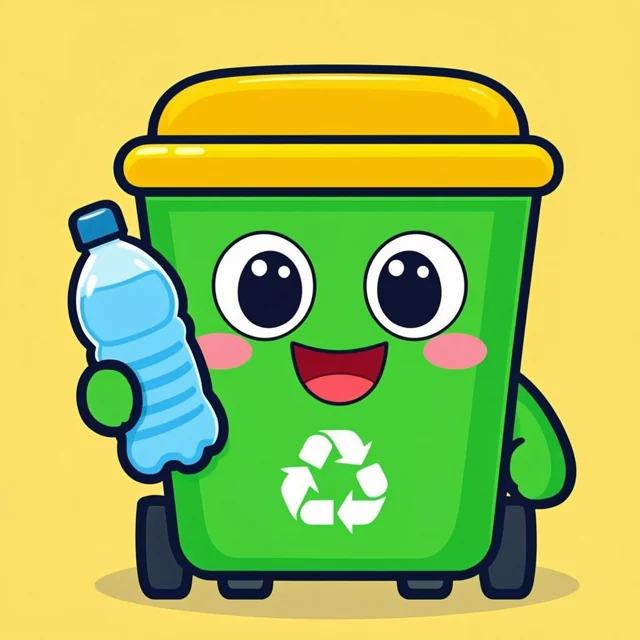
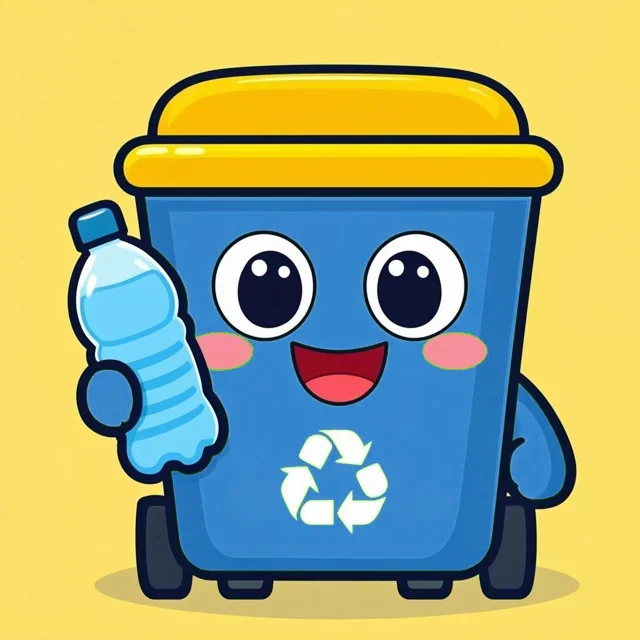
Segregation audit: plastic belongs in blue bins, never green
Cross-checked all 17 site images and every in-page SVG against the
site's sorting rules (blue = plastic, green = organic). Fixes:

- Binny, the day 2-5 challenge bins and the game-cover superhero are
  all plastic-stream bins: recolored from green to blue in the webp
  art (hue-preserving shift, so shading survives; the cover needed
  blob-anchored masks so grass, trees and bushes stay green)
- the submit button and easter-egg bins (3 inline SVGs) now draw a
  blue bin eating the bottle
- day 3 sign no longer reads as plastic-into-green: its bin is blue
- alt texts updated to match; the Snack Squad now teach that the
  green bin is for organics
- scenery untouched: hero litter scene, mascot poses, logo, badge,
  favicon audited clean

Changed region(s): [[0.2188, 0.2812, 0.9062, 0.9062], [0.125, 0.5625, 0.2188, 0.6875]]

diff --git a/static/index.html b/static/index.html
@@ -47,11 +47,11 @@
             <i class="egg-trail"></i>
 <svg class="egg-bin" viewBox="0 0 38 38">
               <g class="egg-lid">
-                <rect x="14.5" y="3.5" width="9" height="4.5" rx="2.2" fill="#2e7d32" stroke="#10401a" stroke-width="1.6"/>
-                <rect x="3.5" y="7.5" width="31" height="5.5" rx="2.75" fill="#2e7d32" stroke="#10401a" stroke-width="1.6"/>
+                <rect x="14.5" y="3.5" width="9" height="4.5" rx="2.2" fill="#1e88e5" stroke="#0a2f57" stroke-width="1.6"/>
+                <rect x="3.5" y="7.5" width="31" height="5.5" rx="2.75" fill="#1e88e5" stroke="#0a2f57" stroke-width="1.6"/>
               </g>
               <path d="M7 14.2h24l-1.8 18a3 3 0 0 1-3 2.9H11.8a3 3 0 0 1-3-2.9z"
-                    fill="#1b5e20" stroke="#10401a" stroke-width="1.6"/>
+                    fill="#1565c0" stroke="#0a2f57" stroke-width="1.6"/>
               <g fill="#fff">
                 <path d="M19 16.6l2.7 4.7h-5.4z"/>
                 <path d="M11.4 27.2l3.5-1.8 2.3 4.1-5.6-.3z"/>
@@ -104,11 +104,11 @@
               <i class="egg-trail"></i>
 <svg class="egg-bin" viewBox="0 0 38 38">
                 <g class="egg-lid">
-                  <rect x="14.5" y="3.5" width="9" height="4.5" rx="2.2" fill="#2e7d32" stroke="#10401a" stroke-width="1.6"/>
-                  <rect x="3.5" y="7.5" width="31" height="5.5" rx="2.75" fill="#2e7d32" stroke="#10401a" stroke-width="1.6"/>
+                  <rect x="14.5" y="3.5" width="9" height="4.5" rx="2.2" fill="#1e88e5" stroke="#0a2f57" stroke-width="1.6"/>
+                  <rect x="3.5" y="7.5" width="31" height="5.5" rx="2.75" fill="#1e88e5" stroke="#0a2f57" stroke-width="1.6"/>
                 </g>
                 <path d="M7 14.2h24l-1.8 18a3 3 0 0 1-3 2.9H11.8a3 3 0 0 1-3-2.9z"
-                      fill="#1b5e20" stroke="#10401a" stroke-width="1.6"/>
+                      fill="#1565c0" stroke="#0a2f57" stroke-width="1.6"/>
                 <g fill="#fff">
                   <path d="M19 16.6l2.7 4.7h-5.4z"/>
                   <path d="M11.4 27.2l3.5-1.8 2.3 4.1-5.6-.3z"/>
@@ -258,8 +258,8 @@
               <button class="btn btn-gold btn-submit" id="submit-btn" type="submit">
               <span class="submit-txt">Send It!</span>
               <span class="toss-stage" aria-hidden="true">
-                <!-- the report is a bottle: rest → toss → the bin eats it.
-                     Dark navy + forest art so it pops on the gold. -->
+                <!-- the report is a bottle: rest → toss → the blue bin eats it.
+                     Dark navy bottle + ocean-blue bin so both pop on the gold. -->
                 <svg class="toss-bottle" viewBox="0 0 28 36">
                   <rect x="10" y="1.5" width="8" height="4.5" rx="2" fill="#1b5e20"/>
                   <path d="M10.6 5.5h6.8l1.8 4.2H8.8z" fill="#1d4f77"/>
@@ -269,11 +269,11 @@
                 </svg>
                 <svg class="toss-bin" viewBox="0 0 38 38">
                   <g class="bin-lid">
-                    <rect x="14.5" y="3.5" width="9" height="4.5" rx="2.2" fill="#2e7d32" stroke="#10401a" stroke-width="1.6"/>
-                    <rect x="3.5" y="7.5" width="31" height="5.5" rx="2.75" fill="#2e7d32" stroke="#10401a" stroke-width="1.6"/>
+                    <rect x="14.5" y="3.5" width="9" height="4.5" rx="2.2" fill="#1e88e5" stroke="#0a2f57" stroke-width="1.6"/>
+                    <rect x="3.5" y="7.5" width="31" height="5.5" rx="2.75" fill="#1e88e5" stroke="#0a2f57" stroke-width="1.6"/>
                   </g>
                   <path d="M7 14.2h24l-1.8 18a3 3 0 0 1-3 2.9H11.8a3 3 0 0 1-3-2.9z"
-                        fill="#1b5e20" stroke="#10401a" stroke-width="1.6"/>
+                        fill="#1565c0" stroke="#0a2f57" stroke-width="1.6"/>
                   <g fill="#fff">
                     <path d="M19 16.6l2.7 4.7h-5.4z"/>
                     <path d="M11.4 27.2l3.5-1.8 2.3 4.1-5.6-.3z"/>
@@ -339,7 +339,7 @@
           <li class="stop c2 reveal">
             <span class="stop-num" aria-hidden="true">2</span>
             <img class="stop-art" src="/img/day2-place.webp" width="640" height="640"
-                 alt="A smiling recycling bin standing proudly in a kitchen corner" loading="lazy"/>
+                 alt="A smiling blue recycling bin standing proudly in a kitchen corner" loading="lazy"/>
             <div class="stop-body">
               <h3>Pick Its Spot!</h3>
               <p>Park it where the trash happens. The kitchen wins!</p>
@@ -350,7 +350,7 @@
           <li class="stop c3 reveal">
             <span class="stop-num" aria-hidden="true">3</span>
             <img class="stop-art" src="/img/day3-label.webp" width="640" height="640"
-                 alt="A smiling recycling bin holding up a big sign with a bottle and a green tick" loading="lazy"/>
+                 alt="A smiling blue recycling bin holding up a big sign with a bottle and a tick" loading="lazy"/>
             <div class="stop-body">
               <h3>Make a Big Label!</h3>
               <p>Draw a huge sign: PLASTIC GOES HERE!</p>
@@ -361,7 +361,7 @@
           <li class="stop c4 reveal">
             <span class="stop-num" aria-hidden="true">4</span>
             <img class="stop-art" src="/img/day4-check.webp" width="640" height="640"
-                 alt="A happy child giving a thumbs up beside a recycling bin, with a grown-up hand also giving a thumbs up" loading="lazy"/>
+                 alt="A happy child giving a thumbs up beside a blue recycling bin, with a grown-up hand also giving a thumbs up" loading="lazy"/>
             <div class="stop-body">
               <h3>Grown-Up Check!</h3>
               <p>Show a grown-up. Make sure they use it right!</p>
@@ -372,7 +372,7 @@
           <li class="stop c5 reveal">
             <span class="stop-num" aria-hidden="true">5</span>
             <img class="stop-art" src="/img/day5-photo.webp" width="640" height="640"
-                 alt="A smiling recycling bin taking a selfie with a camera" loading="lazy"/>
+                 alt="A smiling blue recycling bin taking a selfie with a camera" loading="lazy"/>
             <div class="stop-body">
               <h3>Snap Your Proof!</h3>
               <p>Take a photo of your bin — then log your win!</p>
@@ -400,16 +400,16 @@
 
           <article class="friend-card reveal">
             <img src="/img/char-binny.webp" width="640" height="640"
-                 alt="Binny, a smiling green recycling bin character holding a plastic bottle" loading="lazy"/>
+                 alt="Binny, a smiling blue recycling bin character holding a plastic bottle" loading="lazy"/>
             <h3>Binny</h3>
             <p>“Feed me your plastic! I am ALWAYS hungry.”</p>
           </article>
 
           <article class="friend-card reveal">
             <img src="/img/char-scraps.webp" width="640" height="640"
-                 alt="The Snack Squad: a smiling pepper, carrot and corn cob" loading="lazy"/>
+                 alt="The Snack Squad: a smiling pepper, carrot, corn cob, tomatoes and lemon" loading="lazy"/>
             <h3>The Snack Squad</h3>
-            <p>“We turn into plant food! Ask about compost.”</p>
+            <p>“We turn into plant food! The green bin is our home.”</p>
           </article>
 
           <article class="friend-card reveal">
@@ -435,7 +435,7 @@
         <div class="game-cols">
           <figure class="game-shot reveal">
             <img src="/img/game-cover.webp" width="640" height="909"
-                 alt="Eco Rangers board game box cover: the superhero bin mascot, the game logo and player badges"
+                 alt="Eco Rangers board game box cover: the superhero blue bin mascot, the game logo and player badges"
                  loading="lazy"/>
             <figcaption>From the official Eco Rangers guide book</figcaption>
           </figure>
